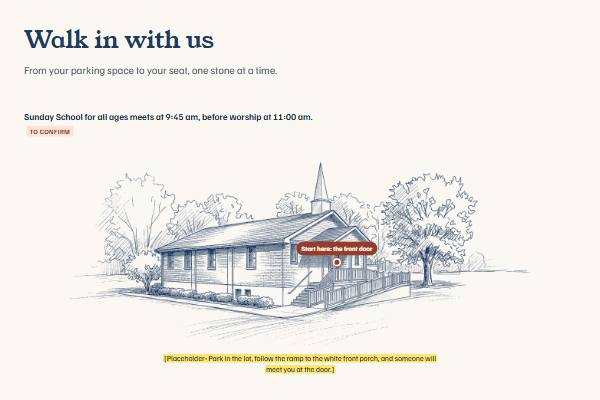
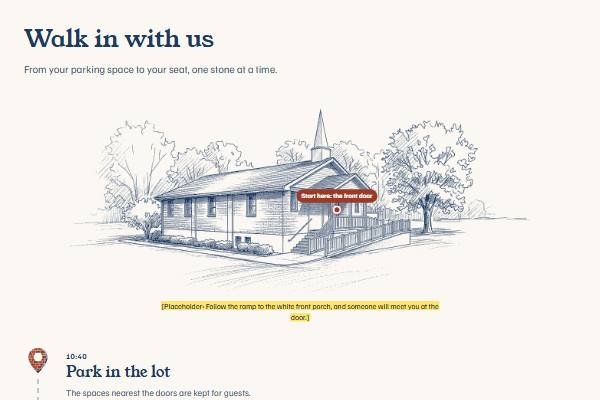
Studio catches up with the re-audit: two guide lines, two block pictures
The Site Guide's section list mentions Contact details' Call and Text
buttons and the Notice's small label and tap-to-call numbers. The block
picker's Walk and This week pictures are reshot; the rest came out the
same.

diff --git a/src/sanity/guides/content.ts b/src/sanity/guides/content.ts
@@ -884,7 +884,7 @@ const allGuides: Guide[] = [
           '**Service times**: every regular gathering with its day and time, from Church facts.',
           '**This week**: from Church facts. Its `Show` choice lists either the next seven days with dates (as on Home) or every regular gathering once, each linked to its Ministries card (as on Events).',
           '**Map and directions**: the address on a drawn map with Google and Apple Maps buttons, from Church facts. Add a line about parking if it helps.',
-          '**Contact details**: phone, email, address and office hours, from Church facts.',
+          '**Contact details**: phone, email, address and office hours, from Church facts. Turn on `Lead with big Call and Text buttons` for a page where calling is the point, like Need the pastor? (Text shows only when `This number takes texts` is ticked in Church facts).',
           '**What we believe**: a heading and a few sentences per belief, with Bible references that link to the verses.',
           '**History timeline**: a year, what happened, and a photo if you have one.',
           '**Bible verse**: one verse set large, its reference linking to the passage.',
@@ -894,7 +894,7 @@ const allGuides: Guide[] = [
           '**Text in columns**: two or three columns of text side by side.',
           '**Row of buttons or link cards**: two to six links, as buttons or as cards with a line of text.',
           '**One wide photo with a caption**: a single photo across the page. For two side by side, use the photo gallery set to two across.',
-          '**Notice with dates**: a short notice that shows only between two dates.',
+          '**Notice with dates**: a short notice that shows only between two dates. Its `Small label` replaces the word "Notice" in front, like "If it cannot wait" for a crisis line. Phone numbers in the message, and 988 and 911, can be tapped to call.',
           '**Countdown to a date**: days left until an event, then a "happening now" line, then a thank-you.',
           '**Upcoming events**: the next events from the Church Trac calendar, with "Add to your calendar" buttons.',
           '**Add our calendar to your phone**: just the calendar buttons.',

diff --git a/docs/agent/changelog.md b/docs/agent/changelog.md
@@ -1,5 +1,14 @@
 # Change history
 
+_2026-10-26: the Studio catches up with the re-audit._
+
+**Decision.** Nathan asked whether the re-audit left the Studio behind. It had mostly kept up (the
+menus guide, the hero video text and the new fields' help came with it). The Site Guide's "What
+each section is for" now mentions Contact details' `Lead with big Call and Text buttons` and the
+Notice's `Small label` and tap-to-call numbers. The block picker's Walk and This week pictures are
+reshot (`npm run thumbnails`); the other pictures came out the same to the eye and were left as they
+were.
+
 _2026-10-26: no crisis band, and two leftovers._
 
 **Decision.** Nathan removed the 988/911 "If it cannot wait" band from the Prayer page and from Need the pastor? (content, `pr-crisis` and `pc-crisis` unset after a backup of each page). The Ministries phone thumbnails still cut the retired stepped corner (`FindYourPlace.astro`); they are now a plain frame with the inner corner like every card picture. Contact's For Jacob note no longer points at care drafts that moved to Need the pastor?. CI snapshot refreshed.
